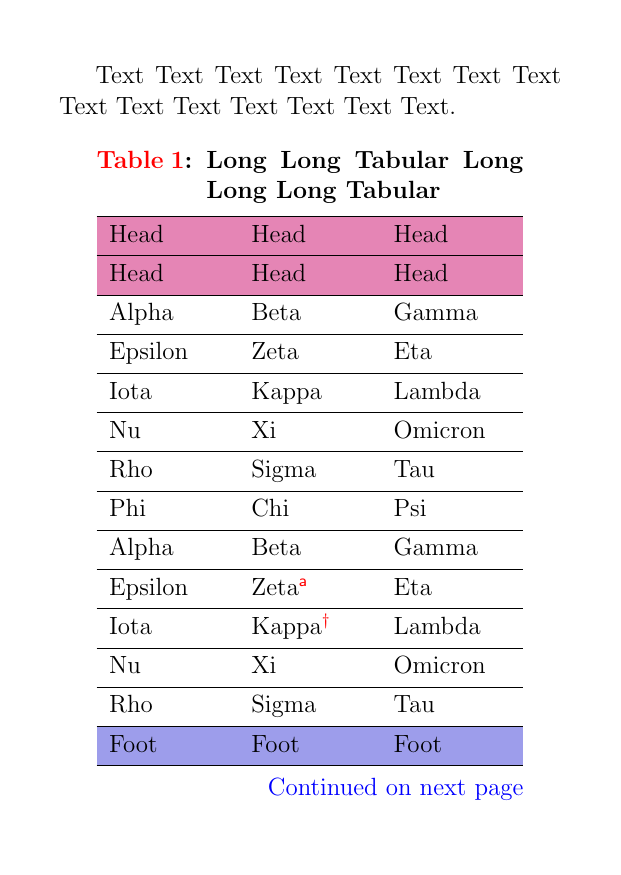
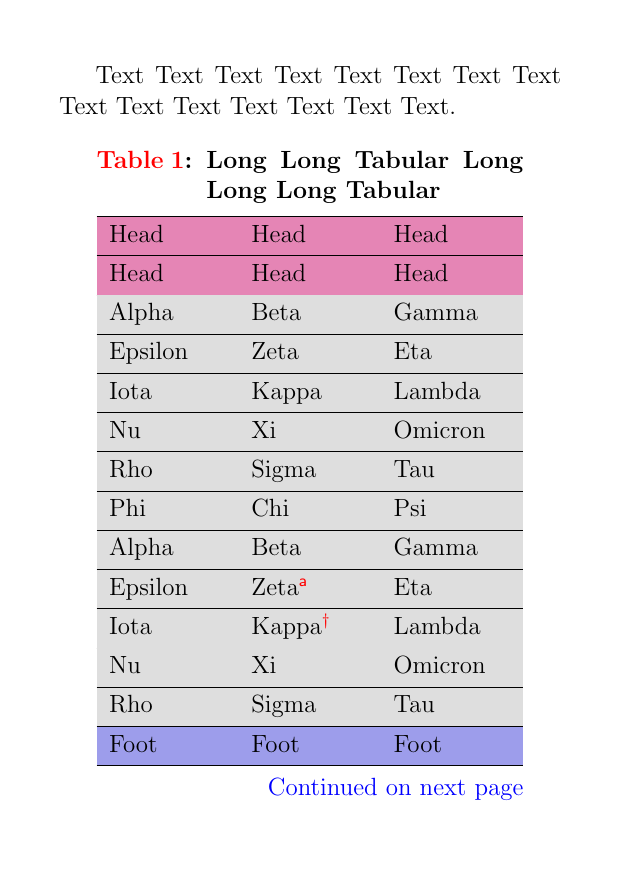
use X, Y, Z for the last three childs in child selectors (#24)

diff --git a/testfiles/long-001.tex b/testfiles/long-001.tex
@@ -35,76 +35,43 @@ Text Text Text Text Text Text Text Text Text Text Text Text Text Text Text.
   remark{Note} = {Some general note. Some general note. Some general note.},
   remark{Source} = {Made up by myself. Made up by myself. Made up by myself.},
 ]{
-  colspec = {XXX}, width = 0.85\linewidth,
-  rowhead = 2, rowfoot = 1
+  colspec = {XXX}, width = 0.85\linewidth, hlines,
+  rowhead = 2, rowfoot = 1,
+  row{1-2} = {purple7}, row{Z} = {blue7}, row{3-Y} = {gray9},
 }
-\hline
- \SetRow{purple7} Head & Head & Head \\
-\hline
- \SetRow{purple7} Head & Head & Head \\
-\hline
+ Head    & Head  & Head    \\
+ Head    & Head  & Head    \\
  Alpha   & Beta  & Gamma   \\
-\hline
  Epsilon & Zeta  & Eta     \\
-\hline
  Iota    & Kappa & Lambda  \\
-\hline
  Nu      & Xi    & Omicron \\
-\hline
  Rho     & Sigma & Tau     \\
-\hline
  Phi     & Chi   & Psi     \\
-\hline
  Alpha   & Beta  & Gamma   \\
-\hline
- Epsilon & Zeta\TblrNote{a} & Eta \\
-\hline
+ Epsilon & Zeta\TblrNote{a}       & Eta    \\
  Iota    & Kappa\TblrNote{$\dag$} & Lambda \\
-\hline
  Nu      & Xi    & Omicron \\
-\hline
  Rho     & Sigma & Tau     \\
-\hline
  Phi     & Chi   & Psi     \\
-\hline
  Alpha   & Beta  & Gamma   \\
-\hline
  Epsilon & Zeta  & Eta     \\
-\hline
  Iota    & Kappa & Lambda  \\
-\hline
  Nu      & Xi    & Omicron \\
-\hline
  Rho     & Sigma & Tau     \\
-\hline
  Phi     & Chi   & Psi     \\
-\hline
  Alpha   & Beta  & Gamma   \\
-\hline
  Epsilon & Zeta  & Eta     \\
-\hline
  Iota    & Kappa & Lambda  \\
-\hline
  Nu      & Xi    & Omicron \\
-\hline
  Rho     & Sigma & Tau     \\
-\hline
  Phi     & Chi   & Psi     \\
-\hline
  Alpha   & Beta  & Gamma   \\
-\hline
  Epsilon & Zeta  & Eta     \\
-\hline
  Iota    & Kappa & Lambda  \\
-\hline
  Nu      & Xi    & Omicron \\
-\hline
  Rho     & Sigma & Tau     \\
-\hline
  Phi     & Chi   & Psi     \\
-\hline
- \SetRow{blue7} Foot & Foot & Foot \\
-\hline
+ Foot    & Foot  & Foot    \\
 \end{longtblr}
 Text Text Text Text Text Text Text Text Text Text Text Text Text Text Text.
 Text Text Text Text Text Text Text Text Text Text Text Text Text Text Text.
